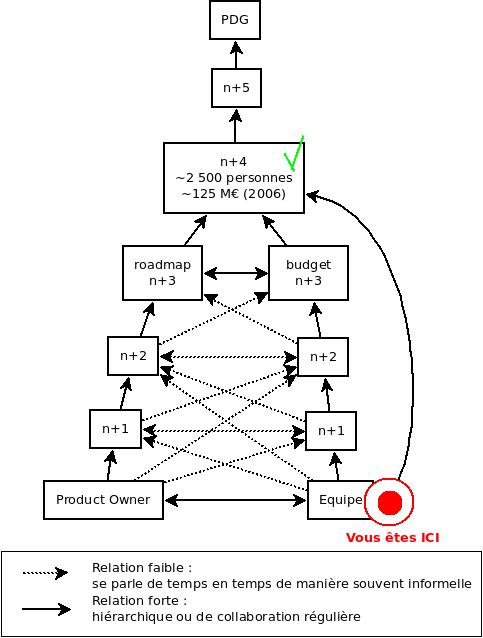
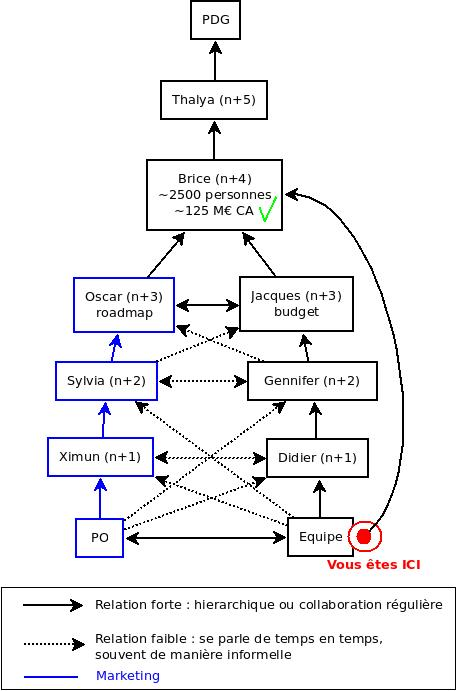
draft: le A3 comme outil de communication manageriale: mise à jour suite remarques David

Changed region(s): [[0.0, 0.0, 1.0, 1.0]]

diff --git a/_drafts/le_a3_comme_outil_de_communication.md b/_drafts/le_a3_comme_outil_de_communication.md
@@ -11,7 +11,7 @@ categories:
 - leanagile
 ---
 
-Il y a peu encore, je travaillais pour un groupe de télécom qui commercialise une offre de messagerie instantannée (ou *chat*) pour que les internautes puissent entrer en communication avec des conseillers. Il comprend une distribution des *chats* dans des files d'attentes, des outils d'aide pour les conseillers et des outils de supervision/administration.
+Il y a peu encore, je travaillais pour un groupe de télécom qui commercialise une messagerie instantanée d'entreprise permettant aux internautes de communiquer avec le service client depuis un site web. Il comprend une distribution des *chats* dans des files d'attentes, des outils d'aide pour les conseillers et des outils de supervision/administration.
 
 # Petite chronologie projet
 
@@ -23,6 +23,7 @@ Afin de mieux comprendre la décision de faire un A3, faisons une petit éclaira
 * `juin 2013` : commercialisation du produit
 * `début 2014` : pour améliorer les relations entre le PO et l'équipe, un proxy PO rejoint l'équipe. Il fait partie de l'équipe et travaille de manière étroite avec le PO
 * `début mars 2014` : rétrospective projet sur 2 jours avant changement de manager dans l'équipe marketing. Deux jours laborieux, avec des dissensions au sein même de l'équipe marketing. Les décisions prises ne seront pas suivies d'effets
+* `fin 2014` : notre PO nous indique qu'il faudrait atteindre 10K€/mois en juillet 2015 pour qu'il considère que nous avons réussi
 * `début 2015` : le nombre de client augmente régulièrement (~100) mais le nombre de *chats* reste faible (~1650/mois). Les retours clients sont plutôt bons sur l'ergonomie et le fonctionnement global de l'outil. La roadmap marketing prévoit de diminuer le nombre de "resources" sur le projet en passant de 5 à 3 ETP (Equivalent Temps Plein)
 
 # Comprendre le problème
@@ -52,24 +53,24 @@ Je travaille deux mois sur ce A3. Avec mon coach, nous choisissons de le faire d
 
 # Remonter le problème
 
-Nous devenons peu à peu experts de ce problème. Nous comprenons rapidement que les leviers de décision sont en dehors de notre sphère d'influence : notre management "proche" (n+1, n+2) ne peut pas prendre les décisions qui permettraient de tester nos hypothèses. Mon coach Lean m'indique que dans le cadre d'une démarche A3 de remontée de problème au management, deux choses sont à prendre en considération pour choisir la bonne personne :
+Nous devenons peu à peu experts de ce problème. Nous comprenons rapidement que les leviers de décision sont en dehors de notre sphère d'influence : Didier, Gennifer, notre management "proche" (*NDLR les noms ont été changés*) ne peut pas prendre les décisions qui permettraient de tester nos hypothèses. Mon coach Lean m'indique que dans le cadre d'une démarche A3 de remontée de problème au management, deux choses sont à prendre en considération pour choisir la bonne personne :
 
 > elle doit comprendre le problème et avoir les leviers d'action pour le suivre
 
 > elle doit être de confiance
 
-Dans notre cas, il faut remonter à notre N+3 pour avoir la personne qui gère le budget de développement du *chat*. Mais c'est l'entité marketing, celle de notre *product owner*, qui a la responsabilité de la roadmap :
+Dans notre cas, il faut remonter à Jacques pour avoir la personne qui gère le budget de développement du *chat*. Mais c'est l'entité marketing, celle de notre *product owner*, qui a la responsabilité de la roadmap :
 
 ![hierarchie](/images/hierarchie_mgmt.jpg)
 
-Cela signifie que si nous voulons rencontrer un manager qui a **tous** les leviers d'action, il faut remonter jusqu'à notre n+4. C'est une personne qui gère un CA de 150M€ et 2500 personnes. Son temps est précieux et notre problème à 3M€ semble sous-dimentionné. Nous décidons d'aller au bout de cette démarche. Un binôme de l'équipe présentera le A3. Notre management proche nous indique qu'il soutiendra cette démarche, mais il est sceptique sur son résultat, et nous demande de faire tous les échelons avant de solliciter un entretien avec notre n+4 afin de :
+Cela signifie que si nous voulons rencontrer un manager qui a **tous** les leviers d'action, il faut remonter jusqu'à Brice. C'est une personne qui gère un CA de 150M€ et 2500 personnes. Son temps est précieux et notre problème à 3M€ semble sous-dimentionné. Nous décidons d'aller au bout de cette démarche. Un binôme de l'équipe présentera le A3. Notre management proche nous indique qu'il soutiendra cette démarche, mais il est sceptique sur son résultat, et nous demande de faire tous les échelons avant de solliciter un entretien avec Brice afin de :
 
 * ne pas heurter un manager intermédiaire qui pourrait mal prendre une escalade
 * consolider toutes les informations avant de présenter une synthèse au grand manager
 
 Bonne idée ! Cela nous permettra de compléter notre A3 avec des éléments nouveaux et de faire une répétition générale (nous répétons déjà devant d'autres personnes).
 
-Nous prenons donc rendez-vous avec la partie marketing n+2, et avec notre n+3 puisque nous tenons régulièrement informés nos deux managers directs. Nous constatons lors de cet entretien préparatoire :
+Nous prenons donc rendez-vous avec Sylvia et Jacques puisque nous tenons régulièrement informés nos deux managers directs. Nous constatons lors de cet entretien préparatoire :
 
 * qu'il faut attendre de présenter le problème avant de donner le document car les personnes se plongent dans le A3 et n'écoutent plus
 * le manager côté marketing se sent remis en question. Il explique qu'il est au courant de cette situation et de ces chiffres. Certaines contre-mesures sont déjà prises : changement de nom (*NDLR : à ce jour il n'a toujours pas changé*), et "*coselling*" avec des *AdWords*. En somme les commerciaux vont vendre le *chat* avec une autre offre de *SEO* (*Search Engine Optimization*) chez google. Cela signifie que nous allons reproduire les mêmes effets délétères que ceux constatés auparavant : vendre le chat à des personnes n'en ayant pas besoin, ou approchées pour un autre produit. Cela produit les résultats qu'on connaît : augmentation du nombre de clients, mais stagnation du nombre de chats, donc du CA
@@ -80,7 +81,7 @@ Nous prenons donc rendez-vous avec la partie marketing n+2, et avec notre n+3 pu
 
 ## Une prise de contact par mail
 
-A présent, il faut arriver à obtenir un entretien avec ce manager très occupé. Je fais un brouillon, le fais relire par chaque personne de l'équipe, et j'intègre les remarques. L'objectif que nous nous fixons est d'être succint et susciter la curiosité. Nous envoyons le message suivant sans le document :
+A présent, il faut arriver à obtenir un entretien avec ce manager très occupé. Je fais un brouillon, le fais relire par chaque personne de l'équipe, et j'intègre les remarques. L'objectif que nous nous fixons est d'être succinct et susciter la curiosité. Nous envoyons le message suivant sans le document :
 
 > Bonjour,
 >
@@ -101,10 +102,10 @@ La réponse arrive le lendemain :
 > [...]
 > La solution dont vous parlez, je vois bien son intérêt et son lien direct avec notre stratégie néanmoins nous avons été incapable de la vendre à notre plus gros client : le Groupe - qui l'a testée mais a préféré une autre.
 >
->  Je transfère votre mail à [n+2 marketing] qui pilote l'offre ainsi qu'à [n+3 marketing] car je pense effectivement ces remontées intéressantes.
-> Suis preneuse [n+2 marketing], [n+3 marketing] de vos retours.
+>  Je transfère votre mail à Sylvia qui pilote l'offre ainsi qu'à Oscar car je pense effectivement ces remontées intéressantes.
+> Suis preneuse Sylvia, Oscar vos retours.
 
-Donc retour vers les personnes que nous avons déjà vues, et qui n'ont pas tous les leviers décisionnels. À ce stade, nous n'avons plus rien à perdre, et surtout [n+4] n'a pas vu le document. Forts de notre expérience acquise grâce au A3, nous savons aussi que la motivation de départ n'était pas le groupe. Nous voulons au moins nous donner la chance qu'elle le voie :
+Donc retour vers les personnes que nous avons déjà vues, et qui n'ont pas tous les leviers décisionnels. À ce stade, nous n'avons plus rien à perdre, et surtout Brice n'a pas vu le document. Forts de notre expérience acquise grâce au A3, nous savons aussi que la motivation de départ n'était pas le groupe. Nous voulons au moins nous donner la chance qu'elle le voie :
 
 
 > > La solution dont vous parlez, je vois bien son intérêt et son lien direct avec notre stratégie [...]
@@ -113,7 +114,7 @@ Donc retour vers les personnes que nous avons déjà vues, et qui n'ont pas tous
 > 
 > > Je transfère votre mail [...]
 > 
-> J'ai montré ce A3 à [n+2 marketing] et [n+3]. Je voulais constater l'alignement stratégique autour de ce produit pour savoir où nous allons. Cette direction a des impacts directs sur les développements en cours, et sur l'efficacité de l'équipe.
+> J'ai montré ce A3 à Sylvia et Jacques. Je voulais constater l'alignement stratégique autour de ce produit pour savoir où nous allons. Cette direction a des impacts directs sur les développements en cours, et sur l'efficacité de l'équipe.
 > 
 > Je vous joins le document au format électronique, si vous avez des questions, je suis à votre disposition.
 
@@ -129,13 +130,13 @@ A cette époque, je suis en train de lire [Never Eat Alone](http://keithferrazzi
 > 
 > Faux! N'écoutez pas ces gens!
 
-Il encourage à faire le choix d'une certaine forme de vulnérabilité, car selon lui, il y a bien plus d'avantages à partager de l'information qu'à la dissimuler, même si cela représente un risque. Alors nous suivons ses conseils, et répondons à [N+4] :
+Il encourage à faire le choix d'une certaine forme de vulnérabilité, car selon lui, il y a bien plus d'avantages à partager de l'information qu'à la dissimuler, même si cela représente un risque. Alors nous suivons ses conseils, et répondons à Brice :
 
 > > ?
 > 
 > Il est conseillé dans une démarche a3 vers le management de s'adresser à une personne pertinente (qui connaît le problème et qui a les leviers d'action), et de confiance.
 >
-> Les deux conditions me semblaient remplies. La pertinence car [marketing n+3] gère la roadmap produit, et [n+3] le budget. Vous êtes donc la première personne qui soit "au dessus de la mêlée".
+> Les deux conditions me semblaient remplies. La pertinence car Oscar gère la roadmap produit, et Jacques le budget. Vous êtes donc la première personne qui soit "au dessus de la mêlée".
 > La confiance, par intuition.
 >
 > Comme j'ai vu que je n'aurais pas l'occasion de vous présenter le document, je voulais au moins l'envoyer.
@@ -161,15 +162,15 @@ Nous lui avons renvoyé le A3 et avons finalement obtenu un rendez-vous.
 
 ## La réunion
 
-A 9h du matin à son étage, il a une réunion une demi-heure plus tard, il faut décider "GO/NO-GO" pour le projet. Nous refaisons la présentation du A3. Nous attendions qu'il nous explique (ou rappelle pour les autres managers présents) la stratégie du groupe à moyen/long terme, et replace le projet dans cette perspective afin de décider sur des bases concrètes s'il s'inscrivait dans ce futur. Finalement il a demandé aux managers qui étaient présents ([marketing n+2/n+3] et [n+3]) ce qu'ils en pensaient.
+A 9h du matin à son étage, il a une réunion une demi-heure plus tard, il faut décider "GO/NO-GO" pour le projet. Nous refaisons la présentation du A3. Nous attendions qu'il nous explique (ou rappelle pour les autres managers présents) la stratégie du groupe à moyen/long terme, et replace le projet dans cette perspective afin de décider sur des bases concrètes s'il s'inscrivait dans ce futur. Finalement il a demandé aux managers qui étaient présents (Sylvia, Oscar et Jacques) ce qu'ils en pensaient.
 
-Nous avons compris qu'il y avait eu des désaccords sur le ciblage de clientèle. Et puis, [n+4] a dû partir pour sa réunion, et nous n'avons plus compris le langage employé. Pour ma part, je pense que c'était une forme prononcée de "***galimatias doré***" comme disait mon grand-père. Nous avons cependant appris les choses suivantes :
+Nous avons compris qu'il y avait eu des désaccords sur le ciblage de clientèle. Et puis, Brice a dû partir pour sa réunion, et nous n'avons plus compris le langage employé. Pour ma part, je pense que c'était une forme prononcée de "***galimatias doré***" comme disait mon grand-père. Nous avons cependant appris les choses suivantes :
 
-* [marketing n+2] disant dans sa barbe et le brouhaha "peut-être nous-sommes nous trompés ?"
-* [n+3] indiquant qu'il voyait bien une stratégie reposant sur 2 piliers : du développement interne pour le milieu de marché afin de maitriser les produits, défricher des marchés, et l'intégration de progiciels (Oracle, Cisco, ...) pour les grands comptes afin de rassurer les DSI
+* Sylvia disant dans sa barbe et le brouhaha "peut-être nous-sommes nous trompés ?"
+* Jacques indiquant qu'il voyait bien une stratégie reposant sur 2 piliers : du développement interne pour le milieu de marché afin de maitriser les produits, défricher des marchés, et l'intégration de progiciels (Oracle, Cisco, ...) pour les grands comptes afin de rassurer les DSI
 * nous représentons un tout petit projet à l'échelle de l'entité
 * une contrainte réglementaire arrive 6 mois plus tard, du coup il ne faut pas compter sur une décision avant cette échéance
-* malgré une réduction du temps de présentation, nous avons encore été trop longs et interpellés par [N+4] pour presser le rythme. Nous comptions 20mn, rétrospectivement, je pense que la présentation même du A3 devait tenir en 10mn, peut-être moins. C'est un support, pas un but.
+* malgré une réduction du temps de présentation, nous avons encore été trop longs et interpellés par Brice pour presser le rythme. Nous comptions 20mn, rétrospectivement, je pense que la présentation même du A3 devait tenir en 10mn, peut-être moins. C'est un support, pas un but.
 
 
 # Ce que nous avons appris
@@ -181,7 +182,7 @@ Pour arriver à recueillir les informations nécessaires à la représentation d
 <blockquote class="twitter-tweet" data-lang="en"><p lang="fr" dir="ltr">Le A3, c&#39;est + pour apprendre à travailler ensemble que pour le problęme lui meme. @BorisEveque <a href="https://twitter.com/hashtag/LeanSummitFR?src=hash">#LeanSummitFR</a></p>&mdash;  (@MPIgnace) <a href="https://twitter.com/MPIgnace/status/717996192592961537">April 7, 2016</a></blockquote>
 <script async src="//platform.twitter.com/widgets.js" charset="utf-8"></script>
 
-C'est cette vision qui nous a donné l'énergie d'insister auprès de N+4. Sans le A3, au premier obstacle, nous aurions reculé. Nous avons aussi acquis les termes et finalités du management (sur notre domaine) : CA, croissance, équilibre budgétaire, modèle économique, modèle de facturation, marché... Une forme de langage nous permettant de comprendre et nous faire comprendre. 
+C'est cette vision qui nous a donné l'énergie d'insister auprès de Brice. Sans le A3, au premier obstacle, nous aurions reculé. Nous avons aussi acquis les termes et finalités du management (sur notre domaine) : CA, croissance, équilibre budgétaire, modèle économique, modèle de facturation, marché... Une forme de langage nous permettant de comprendre et nous faire comprendre. 
 
 Notre A3 était loin d'être terminé, et nous ne savons pas si son début respecte vraiment l'orthodoxie de la méthode Lean. Nous avons essayé par la suite de l'utiliser pour faire un suivi des actions en comité de pilotage. Les points sont restés en suspens pendant longtemps, ils doivent toujours l'être. Il semble être nécessaire d'avoir un appui managerial pour aborder la partie "contre-mesures". 
 
